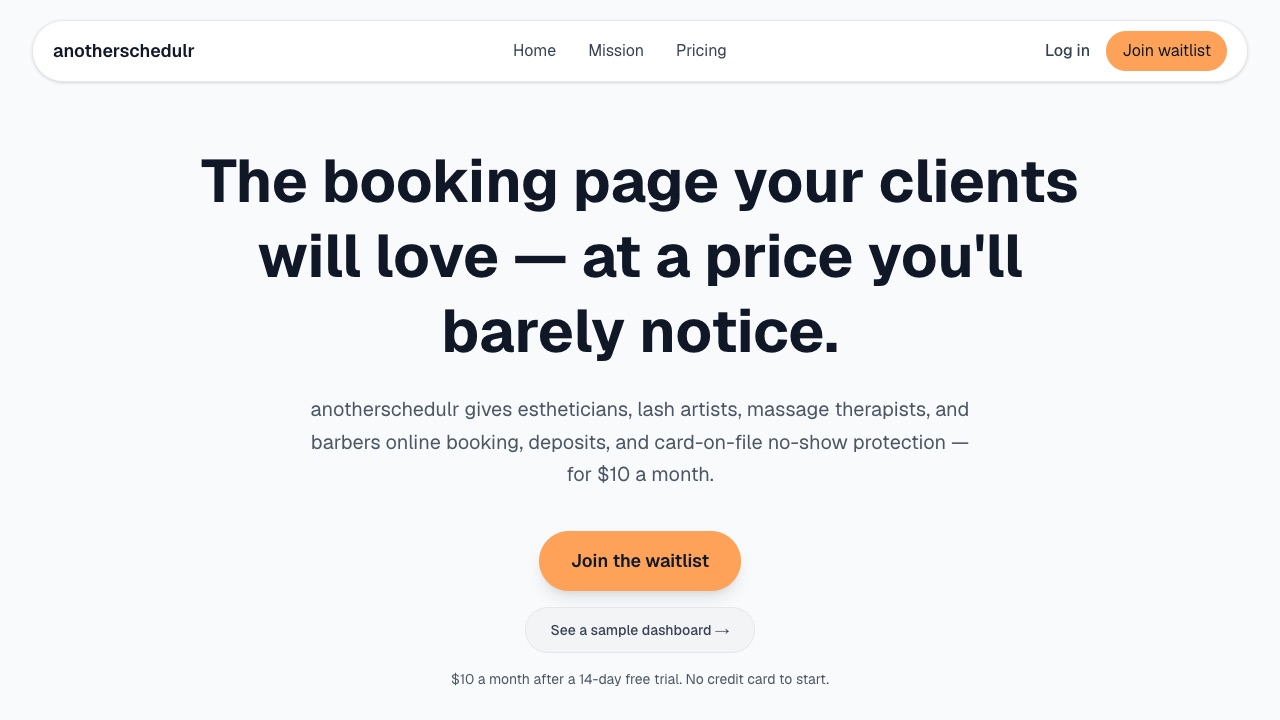
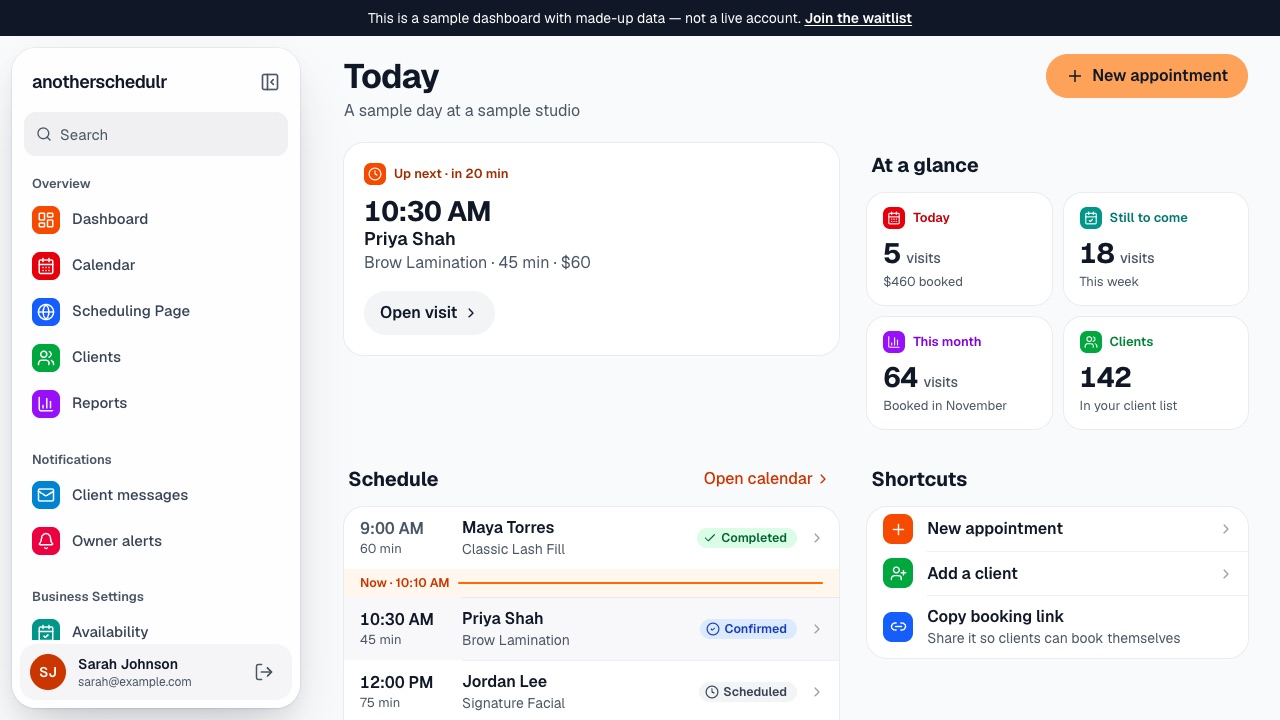
Show the AnotherSchedulr dashboard; mark Streamline live on its own domain
- AnotherSchedulr card now shows the public sample dashboard instead of
  the waitlist page
- Streamline Performance Garage is in production: status live, link to
  streamlineperformancellc.com

Claude-Session: https://claude.ai/code/session_01Pmj7kKypnHLHpoHqa5P9cj

diff --git a/src/content/projects.ts b/src/content/projects.ts
@@ -57,7 +57,7 @@ export const projects: readonly Project[] = [
       "Online booking for one-person service businesses: a branded booking page, deposits, no-show protection and reminders.",
     image: {
       src: "/projects/anotherschedulr.jpg",
-      alt: "AnotherSchedulr home page with the headline “The booking page your clients will love” and a Join the waitlist button",
+      alt: "AnotherSchedulr sample dashboard: the next appointment, today’s schedule, visit counts for the week and month, and shortcuts",
     },
     description:
       "Multi-tenant booking platform for service businesses: white-labeled booking pages, deposits, no-show protection and intake forms.",
@@ -125,10 +125,10 @@ export const projects: readonly Project[] = [
       "Instagram Graph API",
       "Vercel",
     ],
-    status: "pre-launch",
+    status: "live",
     year: "2026",
     links: {
-      live: "https://streamline-performance-garage.vercel.app",
+      live: "https://streamlineperformancellc.com",
       repo: "https://github.com/velas017/streamlinePerformanceGarage",
     },
     summary:
